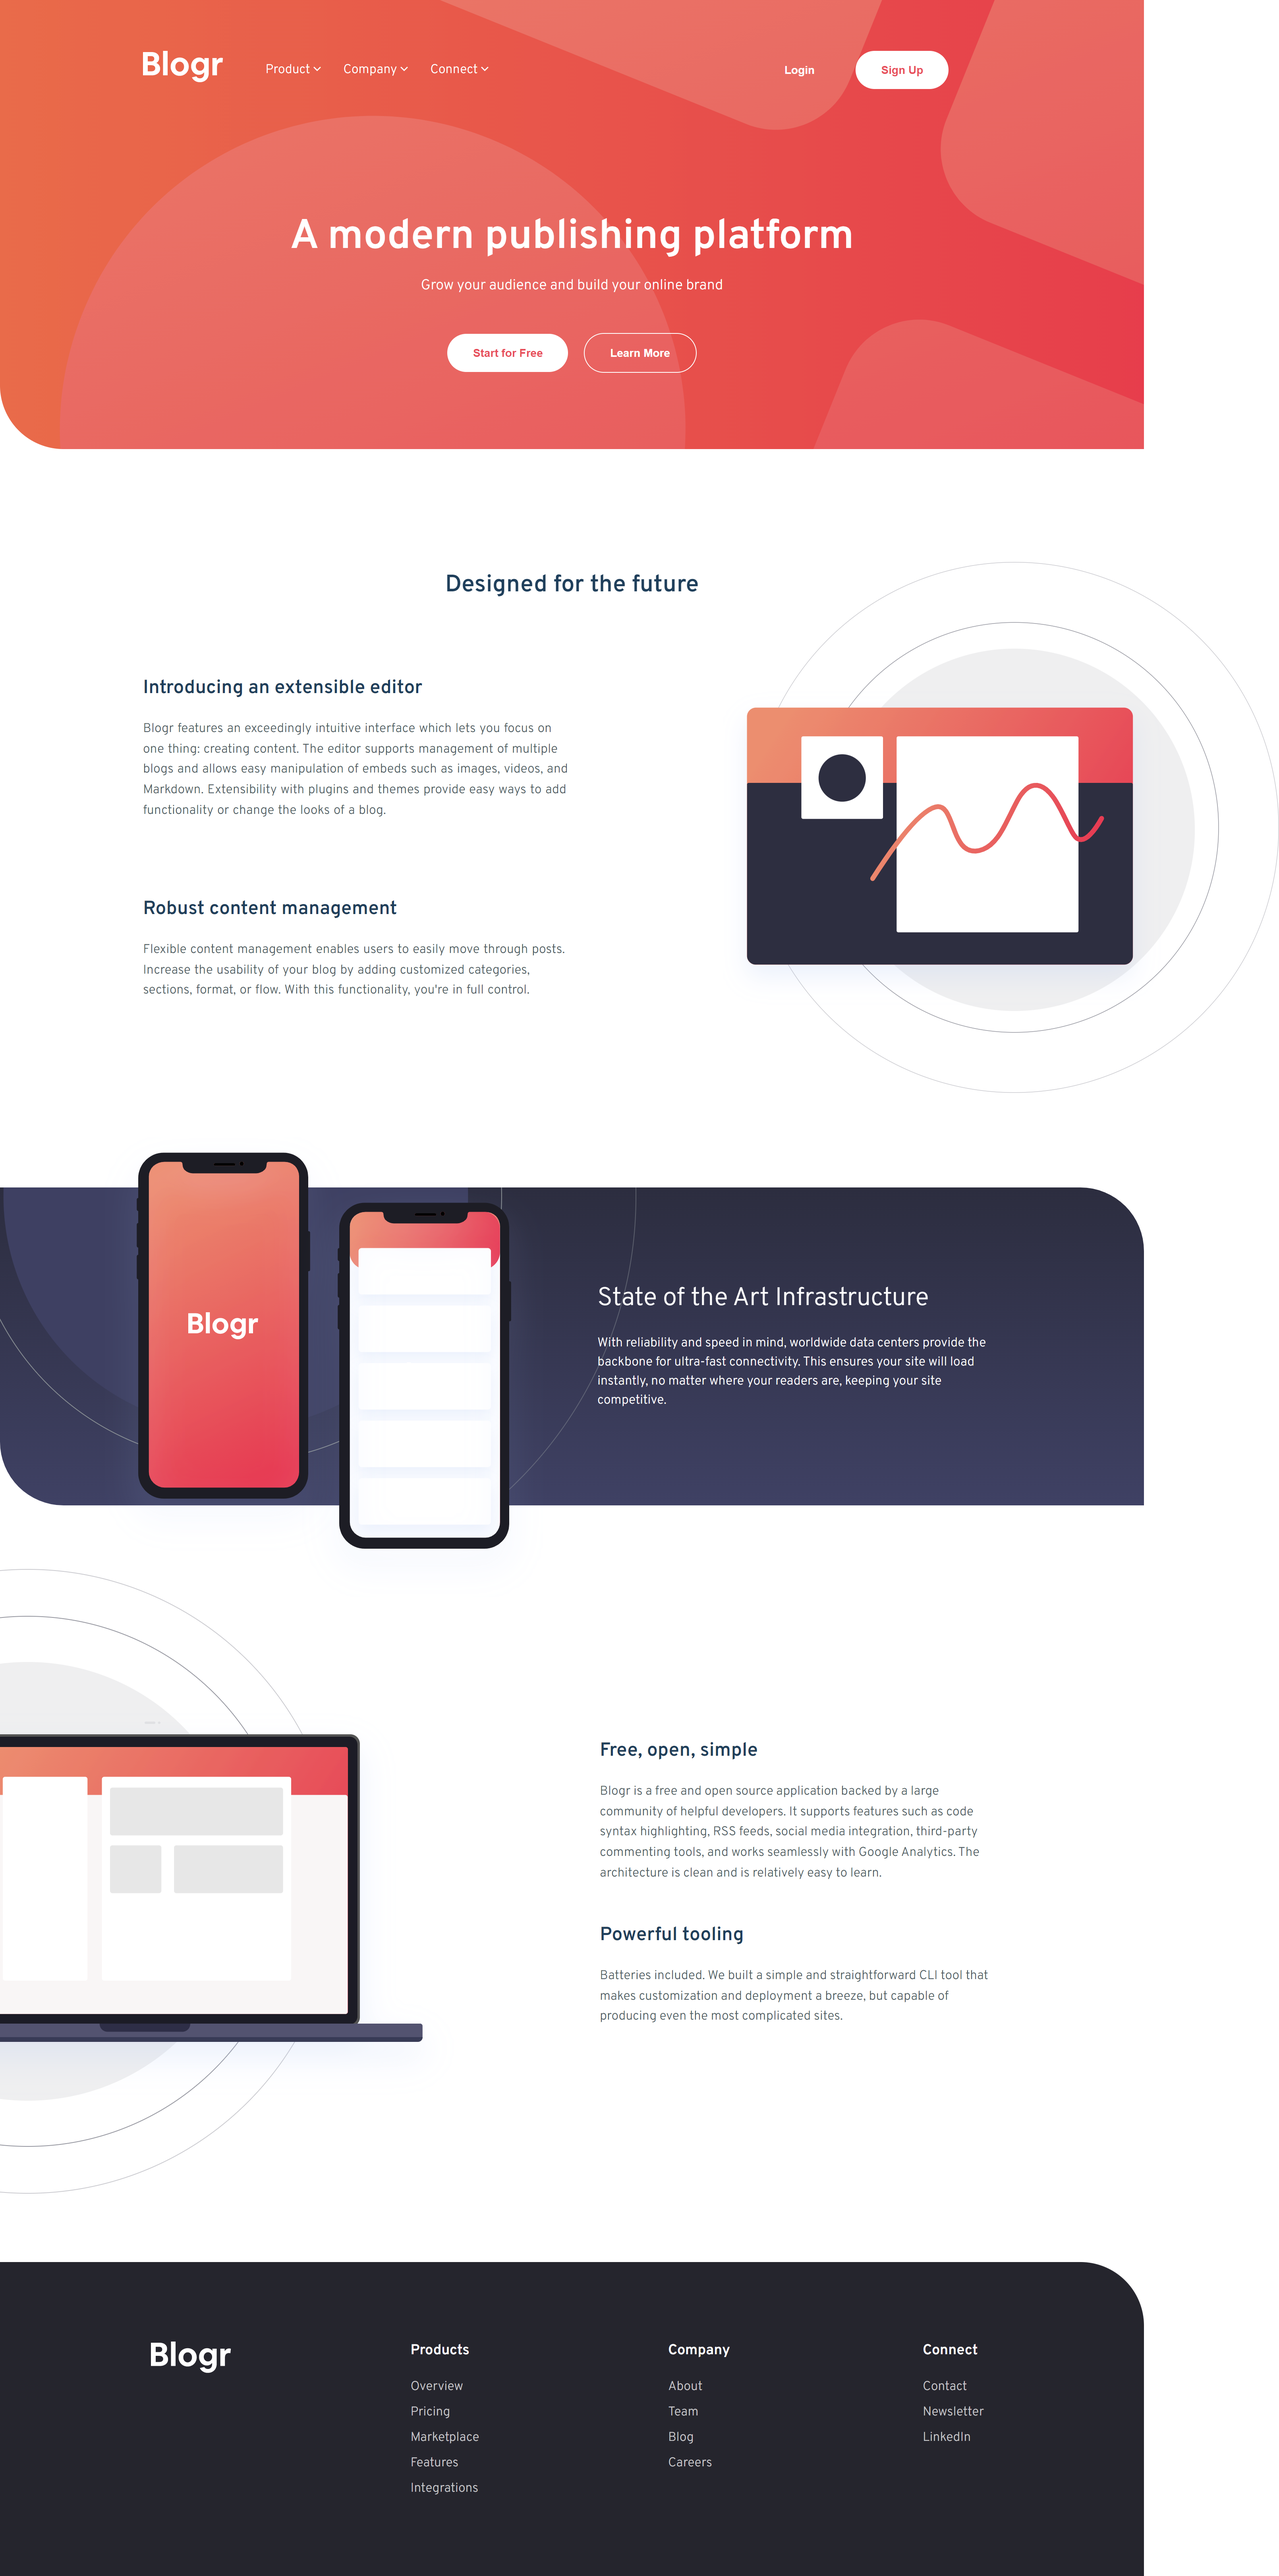
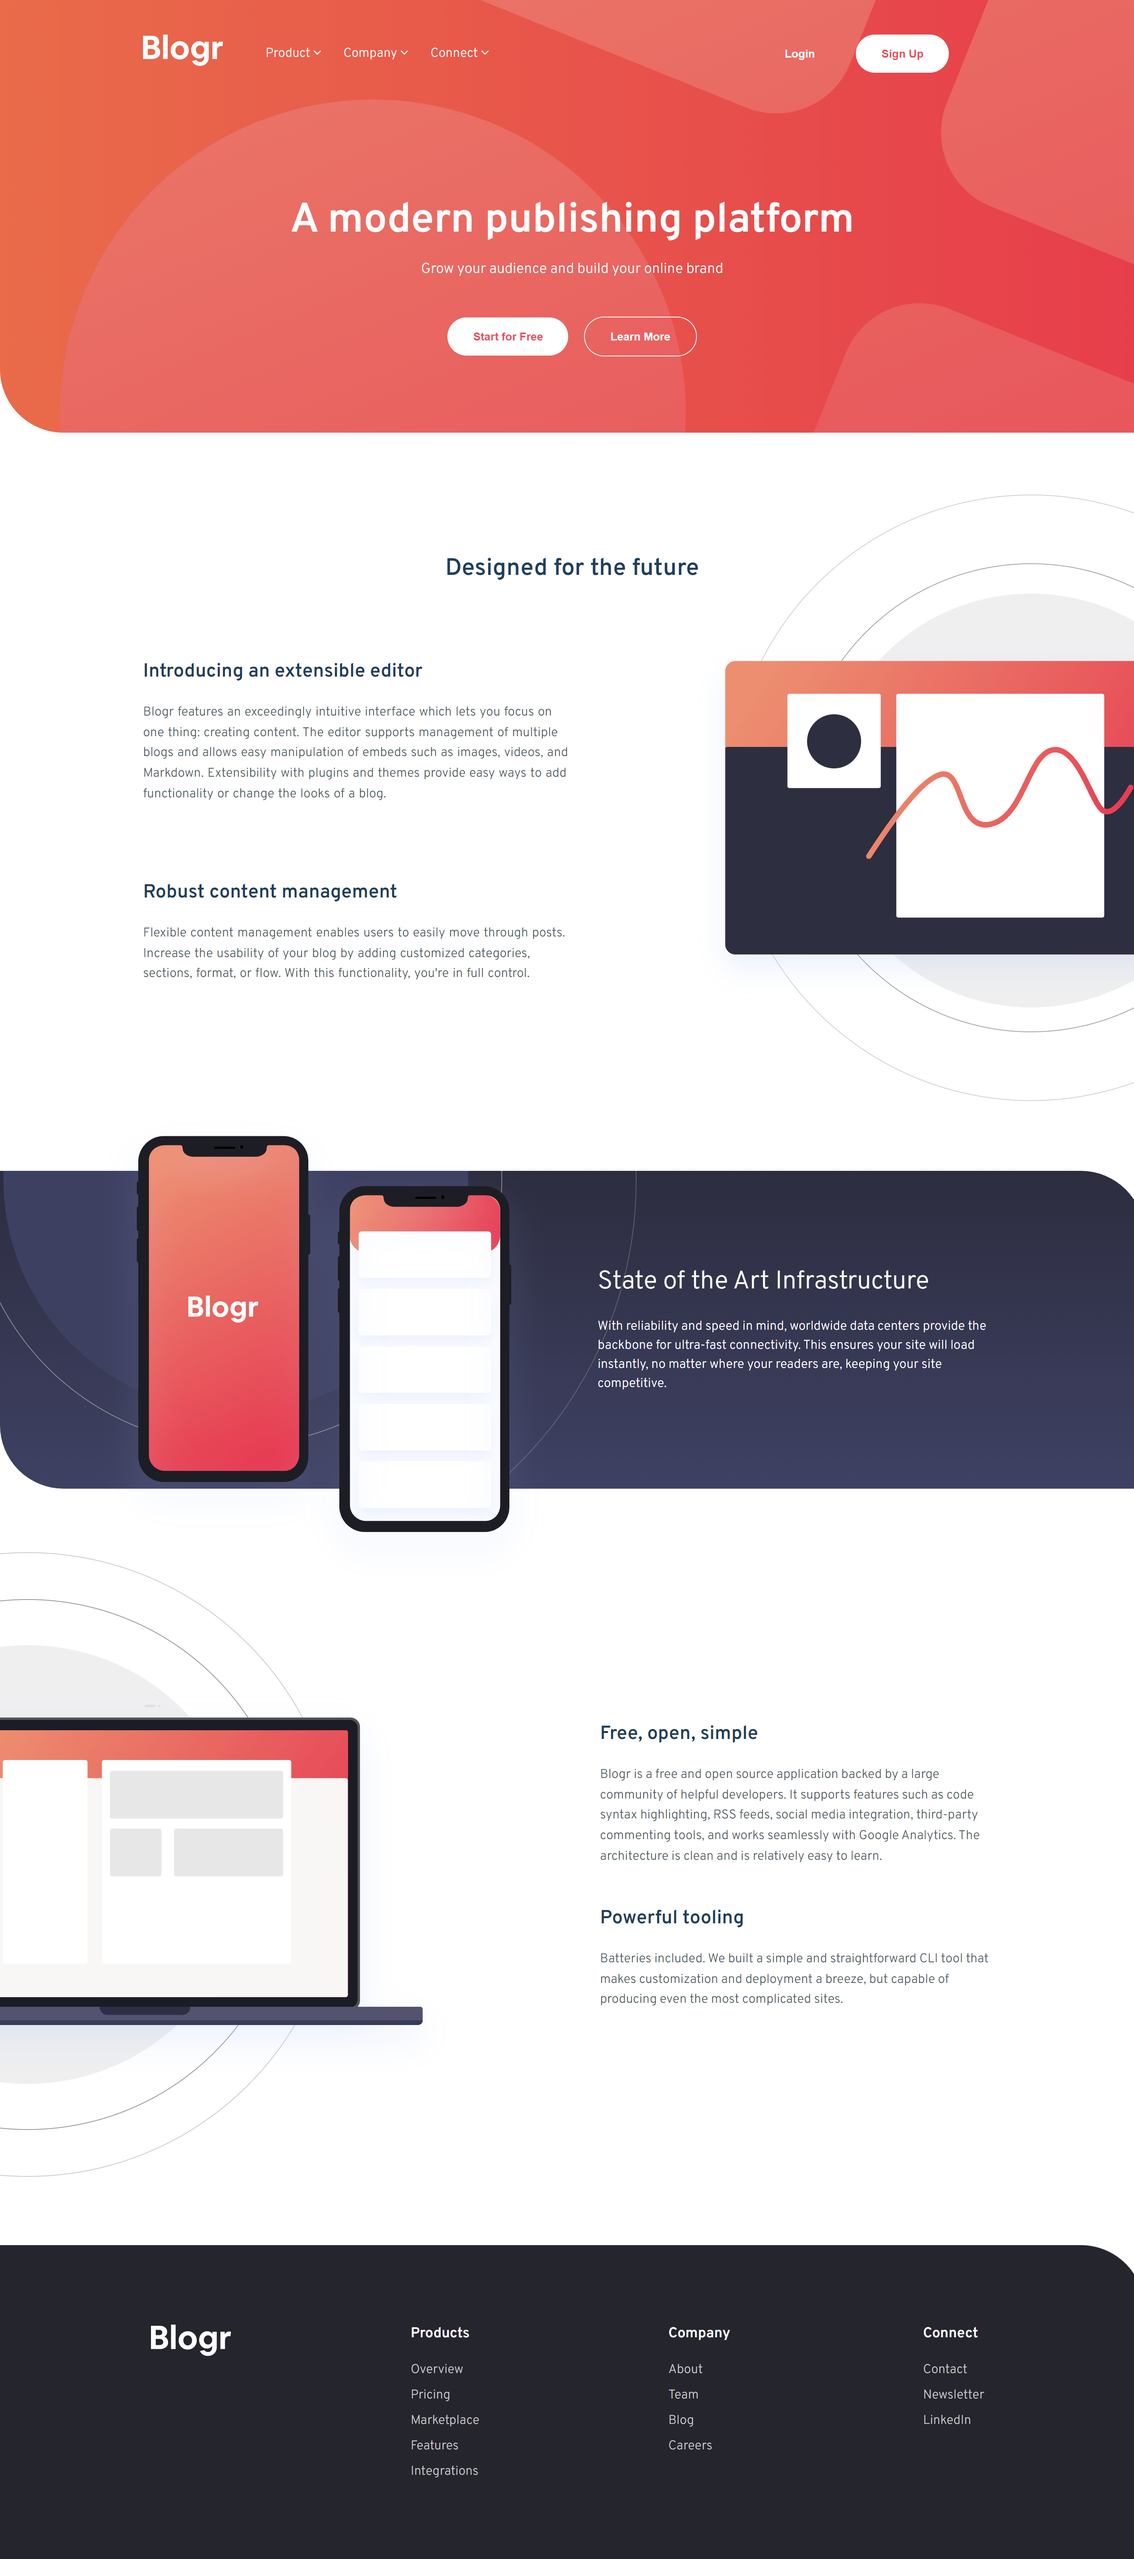
README.md screensots changes

diff --git a/styles/css/main.css b/styles/css/main.css
@@ -28,8 +28,11 @@ FONT SIZE SYSTEM (px)
 /*------------------------ */
 /*GENERAL STYLES */
 /*------------------------ */
-body {
+html, body {
   overflow-x: hidden;
+}
+
+body {
   /* The priority font-family will be Intern. If not available, use the second option which is sans-serif */
   font-family: "Overpass", sans-serif;
   color: hsl(207deg, 13%, 34%);
@@ -38,7 +41,6 @@ body {
 
 .container {
   overflow: hidden;
-  /*width: 100%;*/
 }
 
 .top-container {
@@ -325,9 +327,9 @@ header {
   grid-column: 2/4;
   /* span from grid column line 1 to 3 (i.e., span 2 columns) */
   grid-row: 2/4;
-  margin-left: -5rem;
-  margin-top: -3rem;
-  width: 43.75rem;
+  margin-left: -7rem;
+  margin-top: -7rem;
+  width: 50rem;
 }
 
 /*------------------------ */
@@ -452,15 +454,15 @@ footer {
   color: hsl(0deg, 0%, 100%);
   display: grid;
   align-items: center;
-  border-top-right-radius: 80px;
+  border-top-right-radius: 5rem;
 }
 
 .footer-wrapper {
-  width: 1080px;
-  margin: 100px auto;
+  width: 67.5rem;
+  margin: 6.25rem auto;
   display: grid;
   grid-template-columns: repeat(4, 1fr);
-  gap: 200px;
+  gap: 12.5rem;
   justify-content: center;
   align-content: center;
   justify-items: center;
@@ -468,8 +470,8 @@ footer {
 
 h6 {
   font-weight: 600;
-  font-size: 18px;
-  margin-bottom: 24px;
+  font-size: 1.125rem;
+  margin-bottom: 1.5rem;
 }
 
 li {
@@ -478,7 +480,7 @@ li {
 }
 
 li:not(:last-child) {
-  margin-bottom: 12px;
+  margin-bottom: 0.75rem;
 }
 
 .col-1 ul li:hover,

diff --git a/styles/scss/styles/_footer.scss b/styles/scss/styles/_footer.scss
@@ -7,15 +7,15 @@ footer {
   color: hsl(0, 0%, 100%);
   display: grid;
   align-items: center;
-  border-top-right-radius: 80px;
+  border-top-right-radius: 5rem;
 }
 
 .footer-wrapper {
-  width: 1080px;
-  margin: 100px auto;
+  width: 67.5rem; // 1080px
+  margin: 6.25rem auto;
   display: grid;
   grid-template-columns: repeat(4, 1fr);
-  gap: 200px;
+  gap: 12.5rem;
   justify-content: center;
   align-content: center;
   justify-items: center;
@@ -23,8 +23,8 @@ footer {
 
 h6 {
   font-weight: 600;
-  font-size: 18px;
-  margin-bottom: 24px;
+  font-size: 1.125rem;
+  margin-bottom: 1.5rem;
 }
 
 li {
@@ -33,7 +33,7 @@ li {
 }
 
 li:not(:last-child) {
-  margin-bottom: 12px;
+  margin-bottom: 0.75rem;
 }
 
 .col-1 ul li:hover,

diff --git a/styles/scss/styles/_base.scss b/styles/scss/styles/_base.scss
@@ -31,8 +31,12 @@ FONT SIZE SYSTEM (px)
 /*------------------------ */
 /*GENERAL STYLES */
 /*------------------------ */
-body {
+
+html, body {
   overflow-x: hidden;
+}
+
+body {
   /* The priority font-family will be Intern. If not available, use the second option which is sans-serif */
   font-family: 'Overpass', sans-serif;
   color: $very_dark_grayish_blue; /*we put color in body because - color gets inherited*/
@@ -40,7 +44,7 @@ body {
 
 .container {
   overflow: hidden;
-  /*width: 100%;*/
+  // width: 100%;
 }
 
 .top-container {

diff --git a/styles/scss/styles/_design-future-section.scss b/styles/scss/styles/_design-future-section.scss
@@ -91,7 +91,7 @@
   height:auto;
   grid-column: 2 / 4; /* span from grid column line 1 to 3 (i.e., span 2 columns) */
   grid-row: 2 / 4;
-  margin-left: -5rem;
-  margin-top: -3rem;
-  width: 43.75rem;
+  margin-left: -7rem;
+  margin-top: -7rem;
+  width: 50rem;
 }
